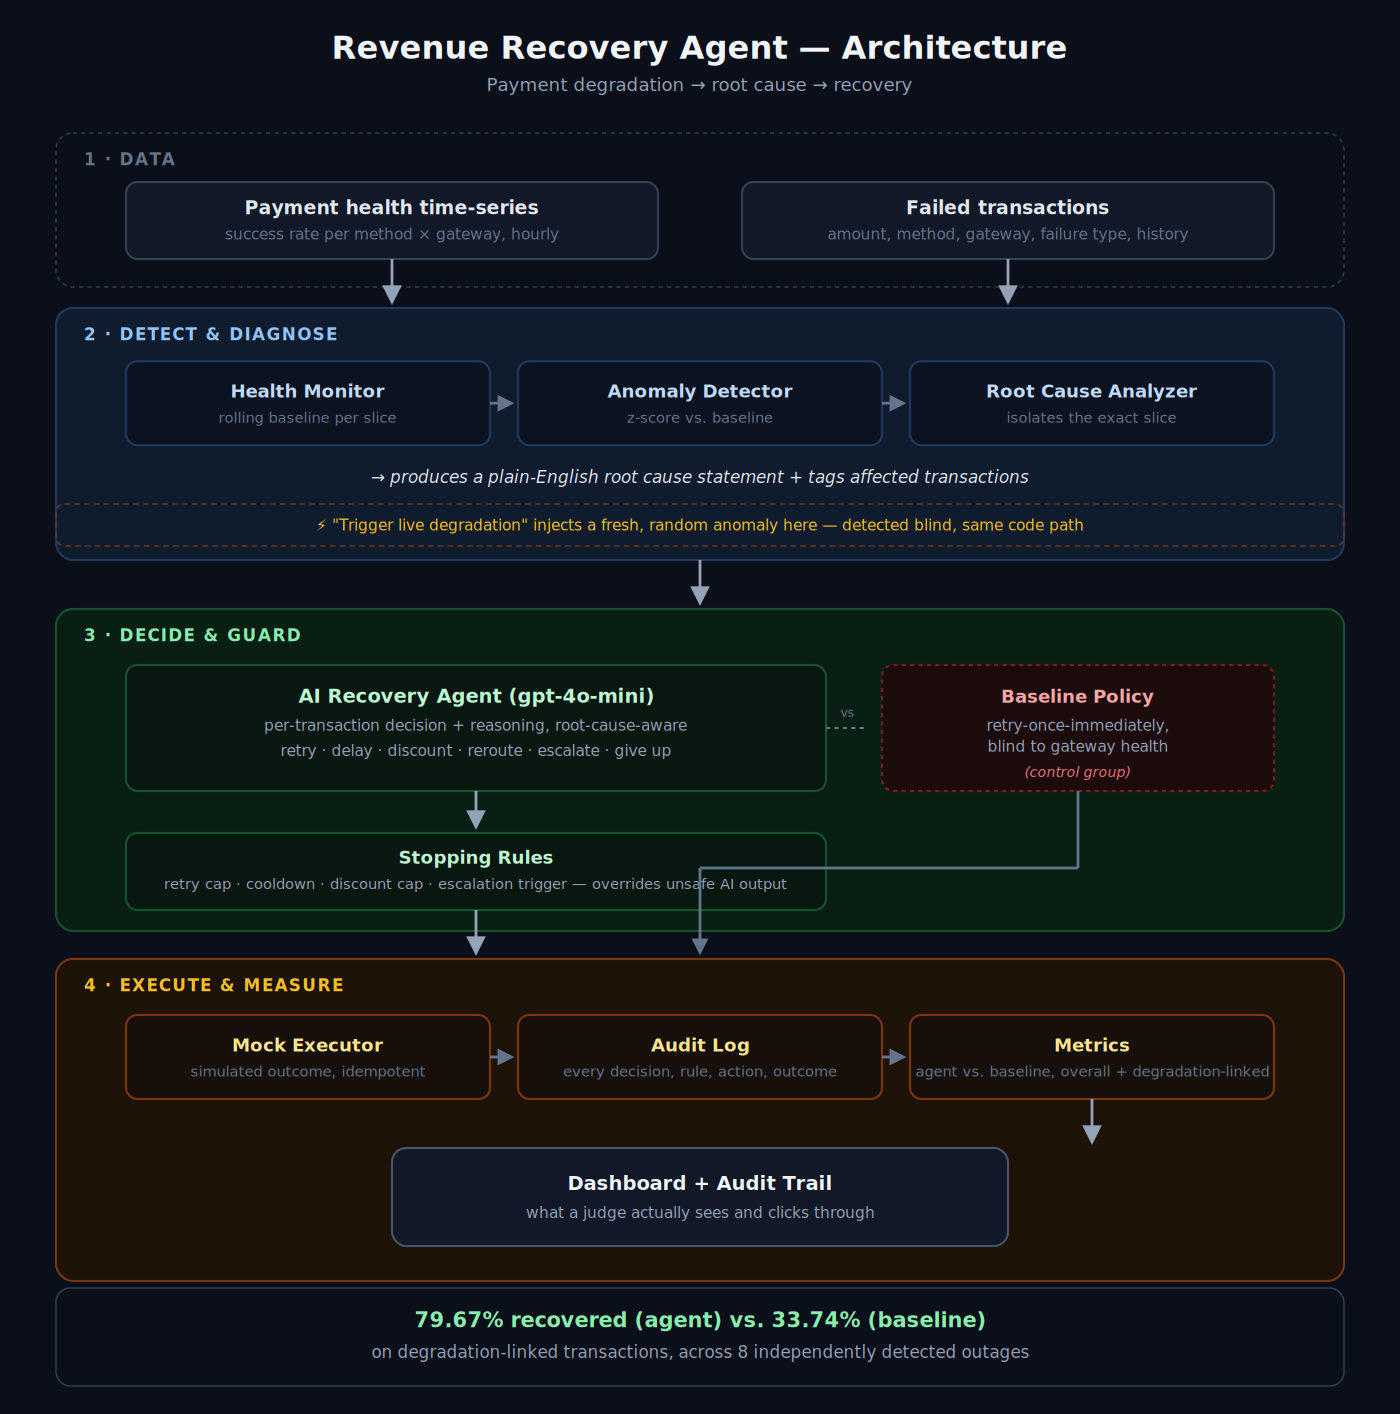
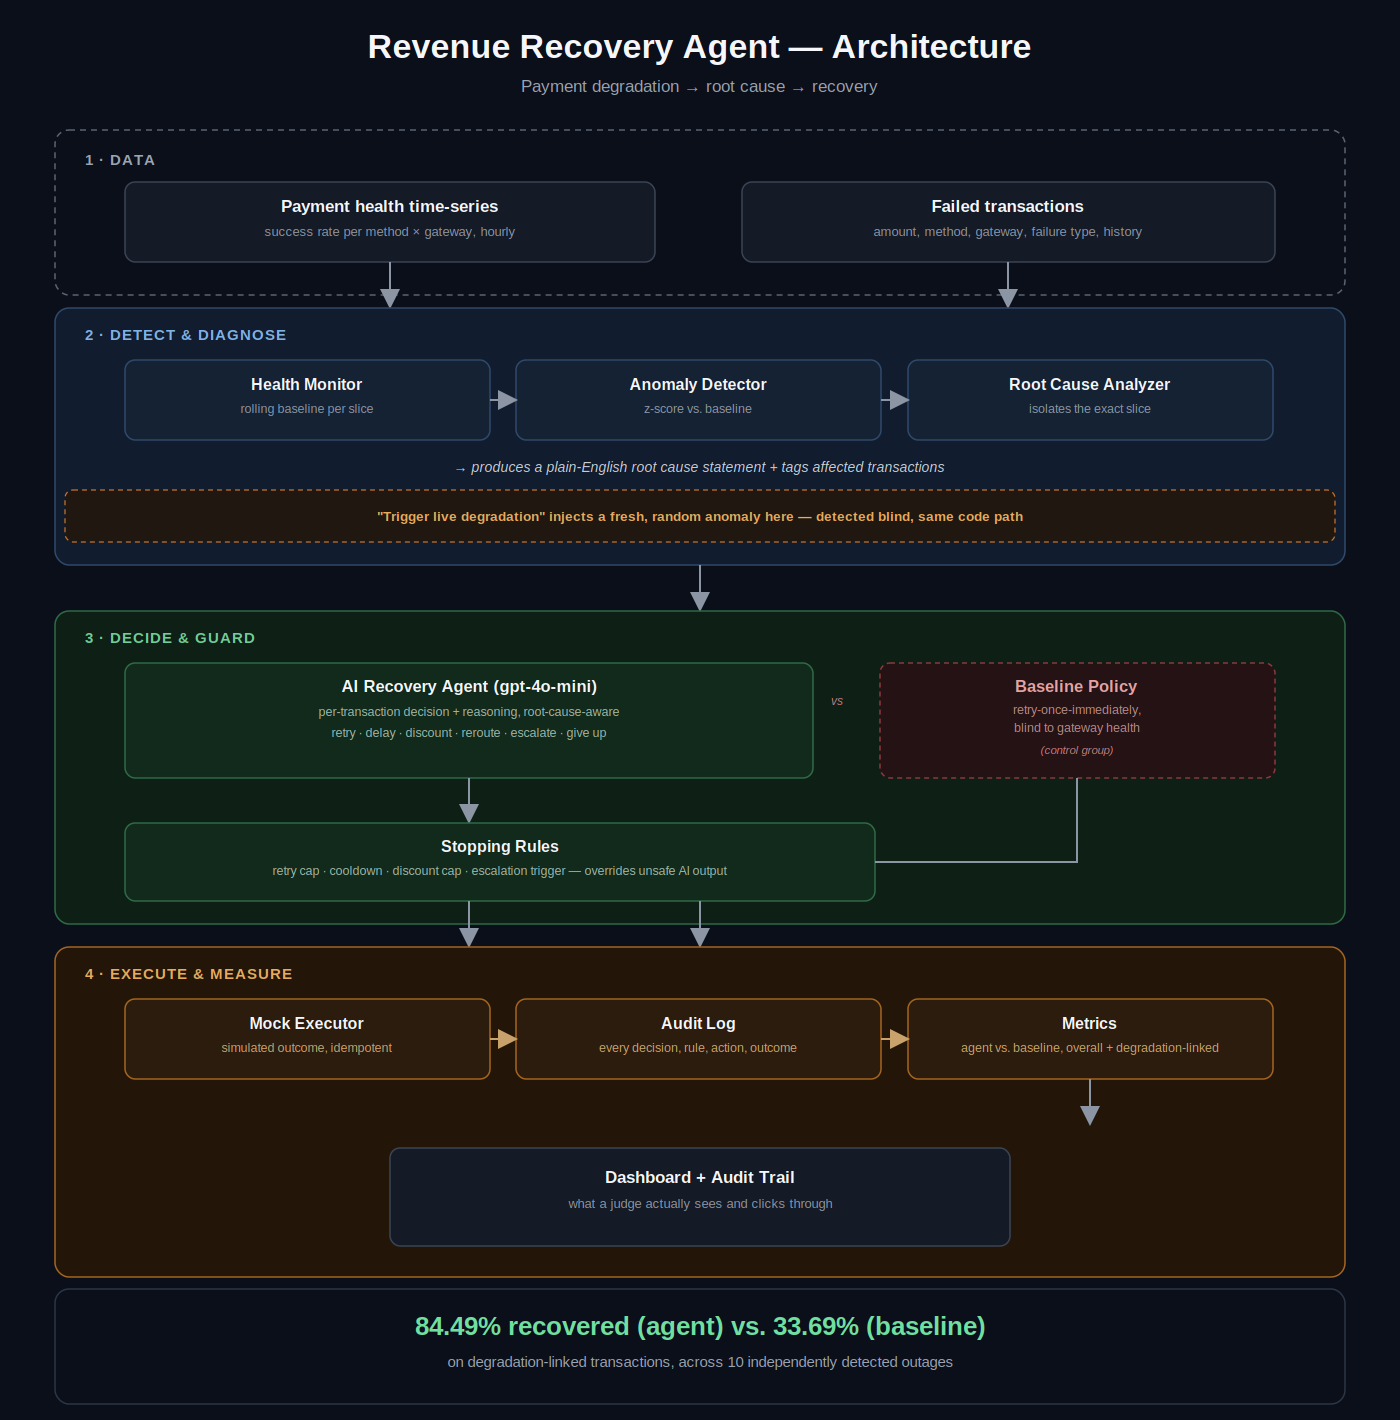
final update

diff --git a/README.md b/README.md
@@ -9,7 +9,7 @@
 Built for the **Razorpay AI Buildathon 2026 — AI Revenue Recovery track**
 Direction: *Payment degradation → root cause → recovery*
 
-> **Headline result:** on transactions caught inside a live payment outage, the agent recovers **79.67%** of revenue vs. **33.74%** for a naive retry-blind baseline — nearly **2.4x** — because it detects the outage and waits/reroutes instead of retrying straight into it. This holds across **nine independently detected degradation events**, eight of which were injected live and had never been seen by the pipeline before.
+> **Headline result:** on transactions caught inside a live payment outage, the agent recovers **84.49%** of revenue vs. **33.69%** for a naive retry-blind baseline — nearly **2.5x** — because it detects the outage and waits/reroutes instead of retrying straight into it. This holds across **ten independently detected degradation events**, nine of which were injected live and had never been seen by the pipeline before.
 
 ![Dashboard overview — metrics, payment health chart with degradation windows highlighted, root cause analysis](docs/screenshots/dashboard-overview.png)
 
@@ -41,7 +41,7 @@ The dashboard shows both sides so this is independently checkable:
 - **Detected:** what the pipeline found, on its own, with no access to what was injected
 - **Ground truth (collapsible):** what was actually injected, shown for the most recently triggered event
 
-This was run nine times across the verified session behind these results — the original scripted event plus eight live-triggered ones, each on a different gateway, payment method, and time window:
+This was run ten times across the verified session behind these results — the original scripted event plus nine live-triggered ones, each on a different gateway, payment method, and time window:
 
 | # | Slice | Window | Ground truth (injected) | Detected (blind) |
 |---|---|---|---|---|
@@ -54,8 +54,9 @@ This was run nine times across the verified session behind these results — the
 | 7 | UPI · NationalPay Gateway | Aug 23, 14:00–19:00 | — | 95% → 71% ✓ |
 | 8 | netbanking · SecureBank Gateway | Aug 23, 20:00–01:00 | — | 93% → 65% ✓ (critical) |
 | 9 | wallet · NationalPay Gateway | Aug 24, 02:00–08:00 | 97% → 66% | 96% → 73% ✓ |
+| 10 | wallet · SecureBank Gateway | Aug 23, 09:00–14:00 | 97% → 56% | 92% → 62% ✓ (critical) |
 
-Each was found independently by the same detection code, on a different gateway/method/window every time — not a lookup tuned to one hardcoded case. The small deltas between injected and detected values (rows 2, 5, and 9) are expected and are themselves evidence the detector is reading real rolling statistics from noisy data, not echoing a stored answer. Ground truth is only retained in the UI for the most recently triggered event; earlier events show "—" in that column even though they were verified independently at the time.
+Each was found independently by the same detection code, on a different gateway/method/window every time — not a lookup tuned to one hardcoded case. The small deltas between injected and detected values (rows 2, 5, 9, and 10) are expected and are themselves evidence the detector is reading real rolling statistics from noisy data, not echoing a stored answer. Ground truth is only retained in the UI for the most recently triggered event; earlier events show "—" in that column even though they were verified independently at the time.
 
 ## Decision schema
 
@@ -150,20 +151,20 @@ Dashboard state is persisted server-side, so refreshing the page reloads the las
 
 ## Results
 
-Numbers below are from the final verified run on the full dataset: 483 transactions, nine degradation events (one scripted, eight live-triggered).
+Numbers below are from the final verified run on the full dataset: 404 transactions, ten degradation events (one scripted, nine live-triggered).
 
 | Metric | Agent | Baseline |
 |---|---|---|
-| Net revenue recovered | **₹6,40,319** | ₹3,84,203 |
-| Revenue delta | **+₹2,56,116** | — |
-| Recovery rate (overall) | **70.39%** | 40.58% |
-| Recovery rate (degradation-linked only) | **79.67%** | 33.74% |
-| Cost to recover / ₹100 | ₹0.65 | ₹0.24 |
-| Escalations | 41 | 4 |
-| Transactions processed | 483 (340 recovered) | 483 |
-| Degradation-linked transactions | 196 recovered of 246 | 83 recovered of 246 |
+| Net revenue recovered | **₹4,90,848** | ₹2,56,943 |
+| Revenue delta | **+₹2,33,905** | — |
+| Recovery rate (overall) | **66.58%** | 36.88% |
+| Recovery rate (degradation-linked only) | **84.49%** | 33.69% |
+| Cost to recover / ₹100 | ₹0.51 | ₹0.30 |
+| Escalations | 17 | 4 |
+| Transactions processed | 404 (269 recovered) | 404 |
+| Degradation-linked transactions | 158 recovered of 187 | 63 recovered of 187 |
 
-The degradation-linked gap (79.67% vs. 33.74%) is the core proof point: the baseline keeps retrying blindly into each outage window and mostly fails; the agent detects the outage and waits it out or reroutes, recovering nearly 2.4x more of that same at-risk revenue. Cost-to-recover is higher for the agent because it spends on discounts and reroutes where the baseline spends nothing and simply gives up — but it converts that spend into far more of the outage-window revenue, a clear net win.
+The degradation-linked gap (84.49% vs. 33.69%) is the core proof point: the baseline keeps retrying blindly into each outage window and mostly fails; the agent detects the outage and waits it out or reroutes, recovering nearly 2.5x more of that same at-risk revenue. Cost-to-recover is higher for the agent because it spends on discounts and reroutes where the baseline spends nothing and simply gives up — but it converts that spend into far more of the outage-window revenue, a clear net win.
 
 ## Limitations & honest scope
 
